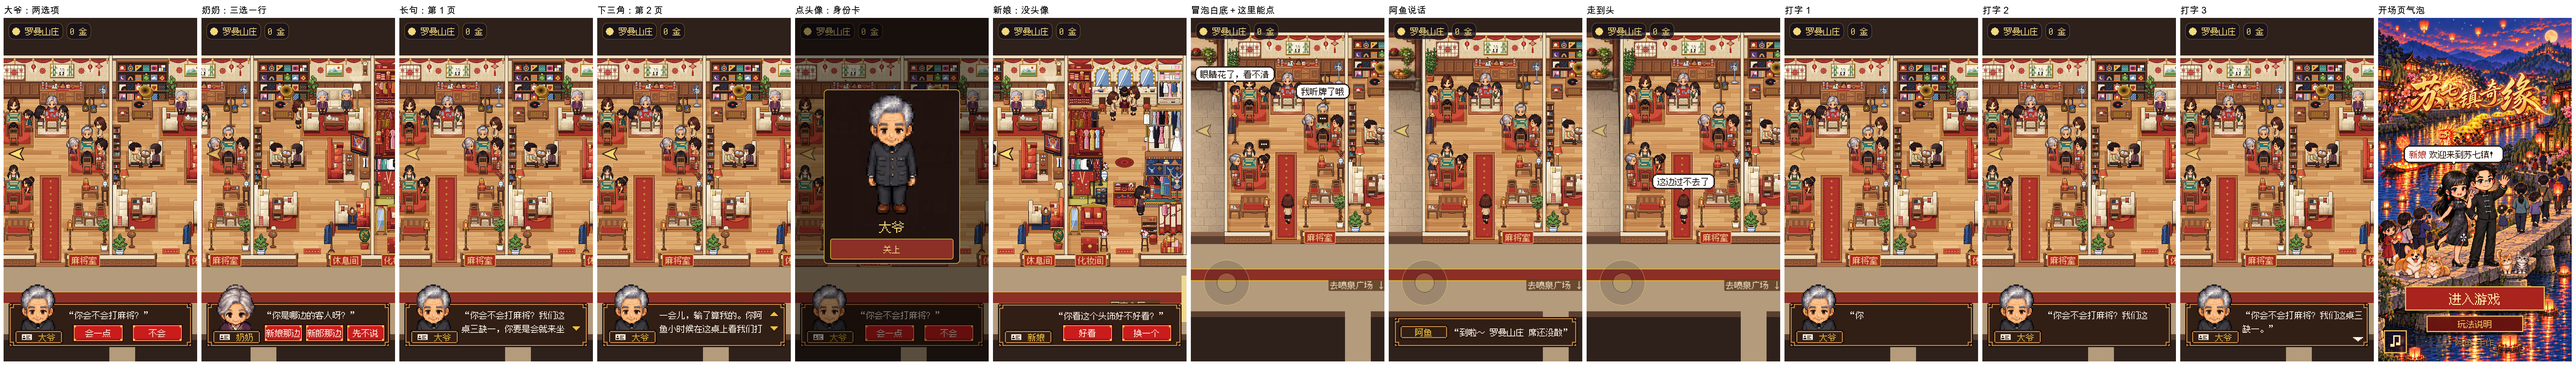
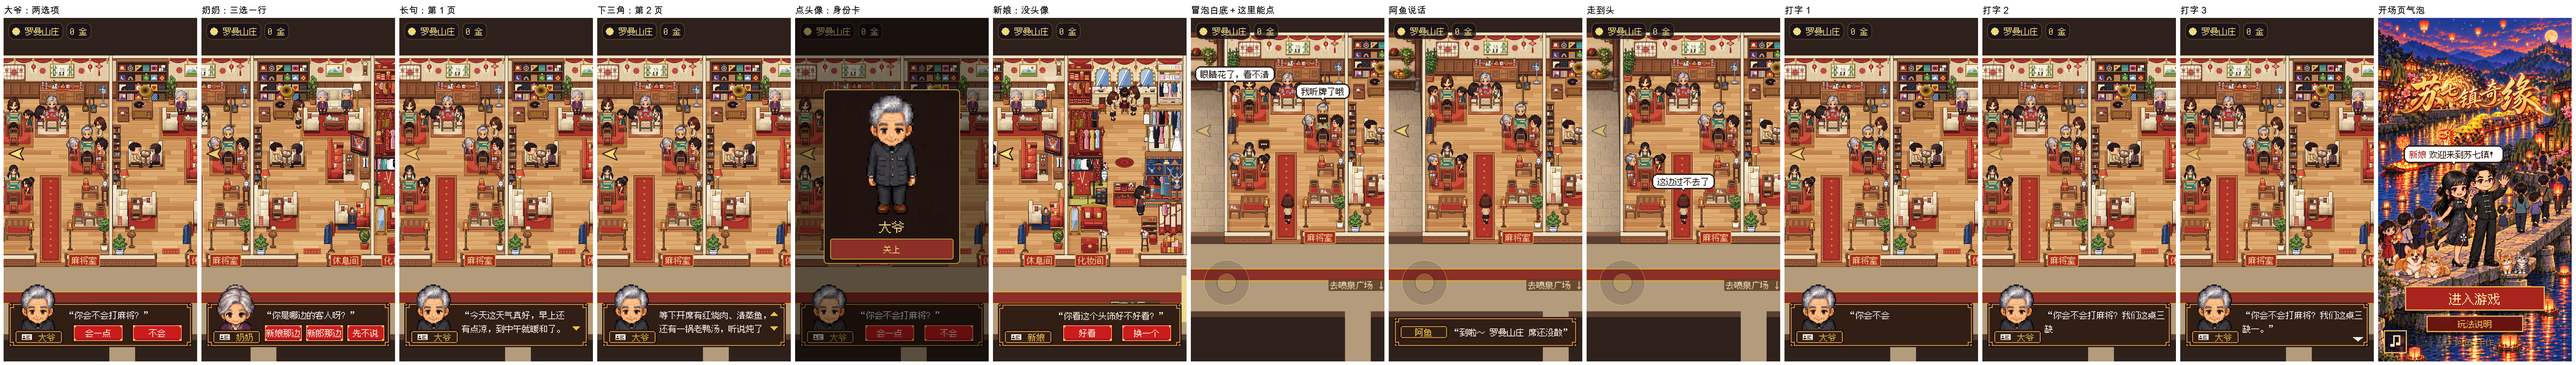
演示翻页的长句换成聊天气和菜（原句带赌钱味、编阿鱼的事；只在测试和截图脚本里），含这句的三张图重出（01 H）

diff --git a/godot/回执/对话框B铺开-回执.md b/godot/回执/对话框B铺开-回执.md
@@ -35,6 +35,7 @@
 - `tools/test_dialog_lift.gd`（我的）第 3 节：再点框不翻页不跳句；点下三角到第 2 页、出上三角；点上三角翻回；翻到最后没有下三角；每页 ≤ 2 行；三角能点范围 ≥ 44×44
 - `tools/test_dialogue_check.gd`（03 的）第 6 节：翻页从「点框」改成「点下三角」，加查第一页只有下三角、点框不翻页不跳句、每页 ≤ 2 行、最后一页只有上三角、上三角翻回；另外开头等这句出来的那行改比 `line_raw`（屏上带“”，原来比 `line_label.text` 永远等不到，等满 2 秒字早出完了）。逻辑别处没动，请 03 过目
 - `tools/shot_ui_skin.gd`：第 2 页改成点下三角翻过去
+- **演示长句换了**（01 10/5）：原来测试、截图里演示翻页那句是我造的，带「输了算我的」（赌钱味）和「阿鱼小时候在这桌上看我们打牌」（编阿鱼的事），游戏里没有这句（只在 `tools/test_dialog_lift.gd`、`tools/shot_ui_skin.gd`）。换成只聊天气和菜的一句，含这句的三张图（各种情况、两张总图）重出了
 
 ## 第六轮：头像只到胸口（10/5，01 H 转）
 
